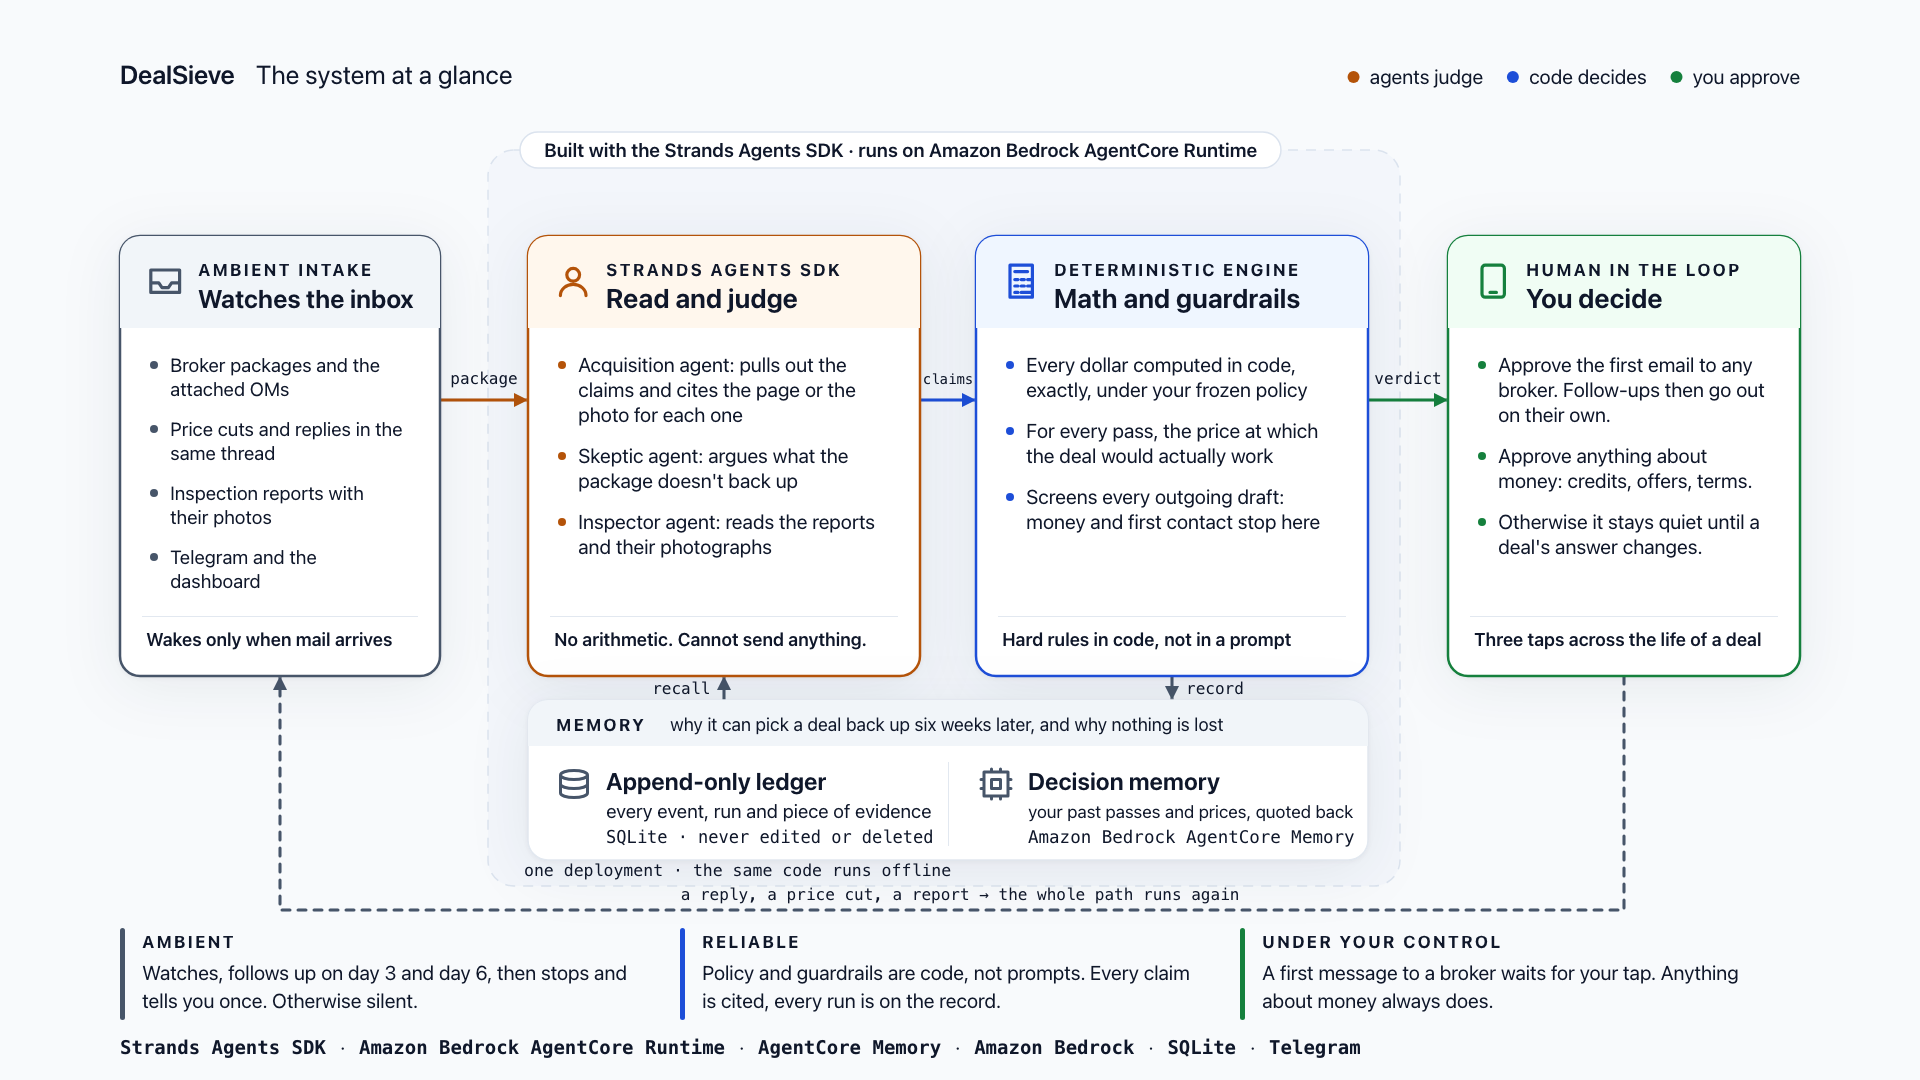
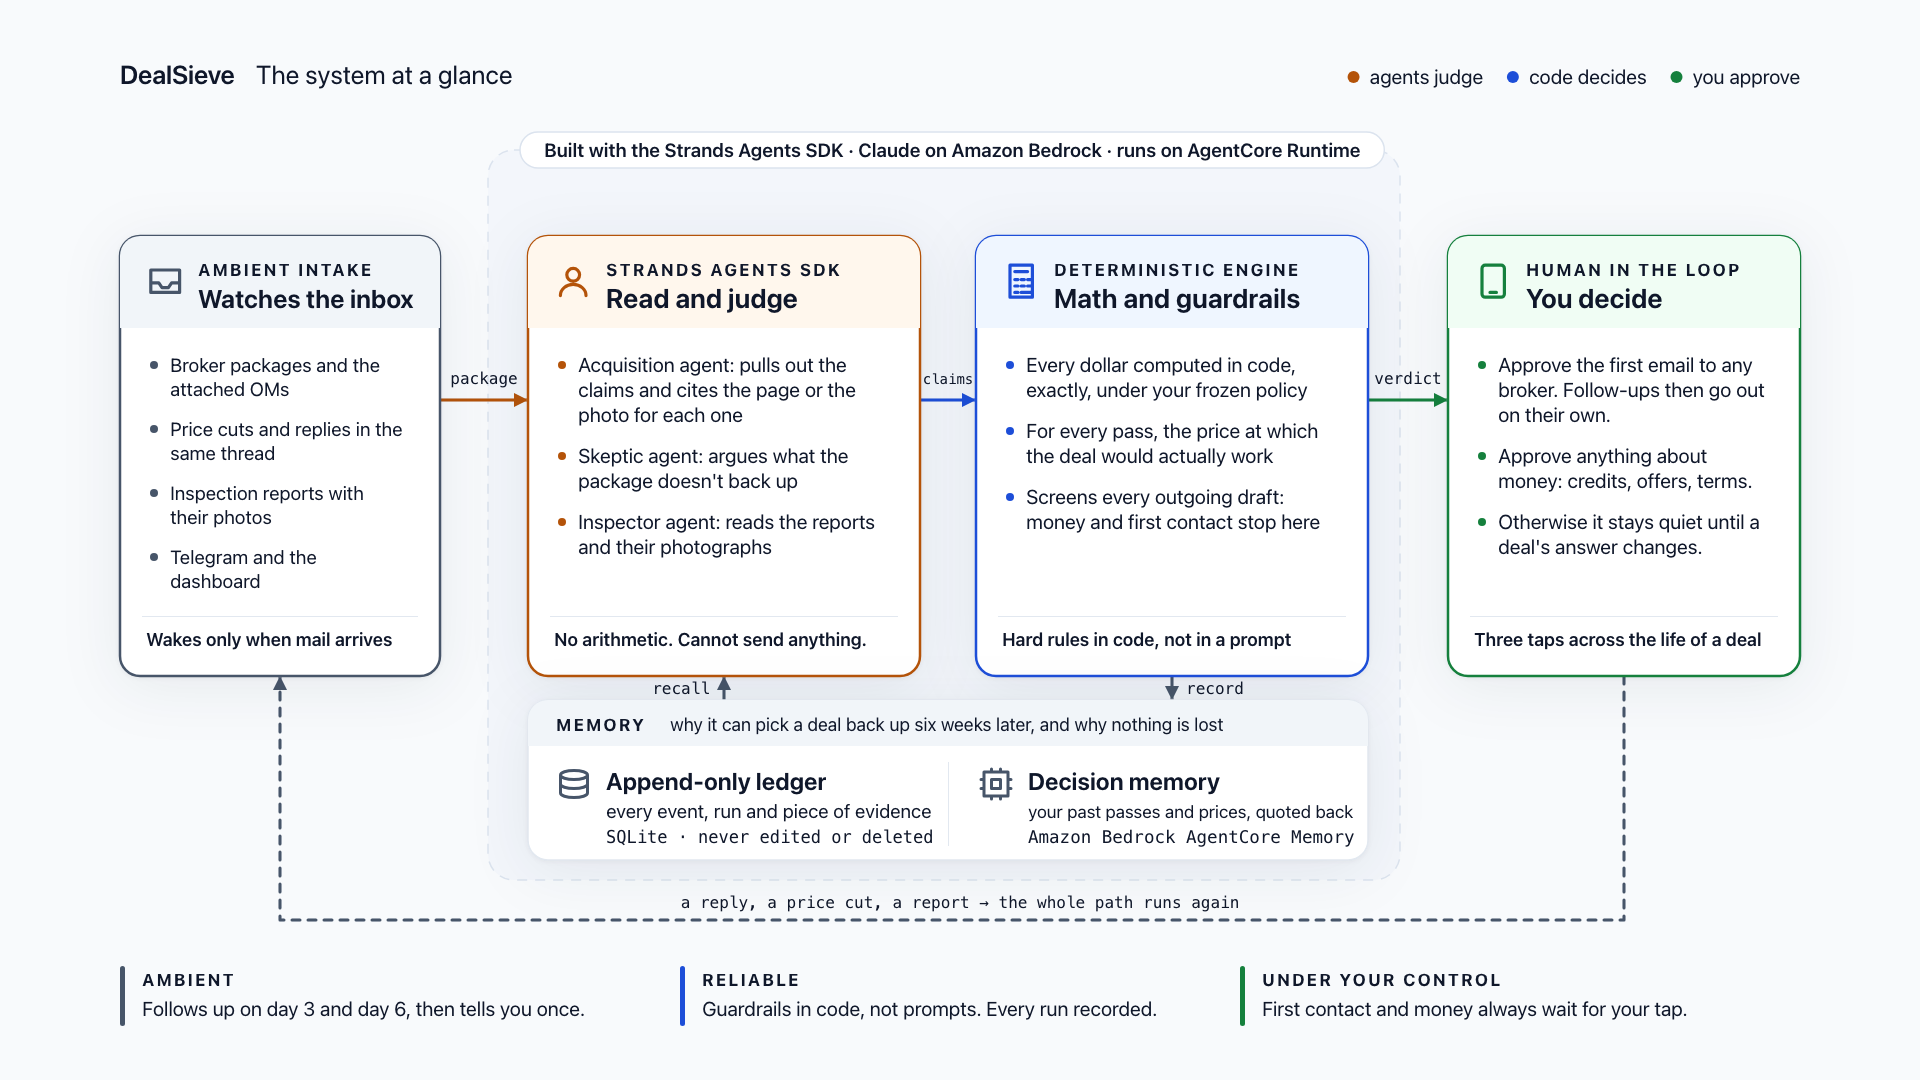
Architecture overview: lighter bottom half (one-line promises, no footnote or platform strip; Claude on Amazon Bedrock named in the platform pill)

Changed region(s): [[0.0625, 0.7944, 0.9062, 0.9778], [0.4375, 0.1222, 0.7188, 0.1528]]

diff --git a/architecture/overview.html b/architecture/overview.html
@@ -66,8 +66,8 @@ const gBack = el("g"), gEdges = el("g"), gBlocks = el("g"), gDeco = el("g"), gAn
 // ---------------------------------------------------------------- geometry
 const BLOCK_Y = 236, BLOCK_H = 440, BLOCK_BOTTOM = BLOCK_Y + BLOCK_H;      // 676
 const BAND_Y = 700, BAND_H = 160;                                            // 700..860
-const CLOUD = { x: 488, y: 150, w: 912, h: 736 };                            // ..886
-const LOOP_Y = 910;
+const CLOUD = { x: 488, y: 150, w: 912, h: 730 };                            // ..880
+const LOOP_Y = 920;
 const AGENTS_X = 528, ENGINE_X = 976, BLOCK_W = 392, HUMAN_X = 1448, SIDE_W = 320, HUMAN_W = 352;
 const AGENTS_CX = AGENTS_X + BLOCK_W / 2, ENGINE_CX = ENGINE_X + BLOCK_W / 2, HUMAN_CX = HUMAN_X + HUMAN_W / 2;
 const GAP_X = (AGENTS_X + BLOCK_W + ENGINE_X) / 2;                            // 946
@@ -92,9 +92,8 @@ const cloud = el("g", {}, gBack);
 el("rect", { x: CLOUD.x, y: CLOUD.y, width: CLOUD.w, height: CLOUD.h, rx: 26, fill: C.cloud, stroke: C.cloudLine, "stroke-width": 1.5, "stroke-dasharray": "10 8" }, cloud);
 const cloudLabel = el("g", {}, cloud);
 const pillRect = el("rect", { x: 520, y: 132, width: 10, height: 36, rx: 18, fill: "#fff", stroke: C.cloudLine, "stroke-width": 1.5 }, cloudLabel);
-const pillText = fit(txt(544, 157, "Built with the Strands Agents SDK  ·  runs on Amazon Bedrock AgentCore Runtime", { "font-size": 19, "font-weight": 600, fill: C.ink2 }, cloudLabel), 830);
+const pillText = fit(txt(544, 157, "Built with the Strands Agents SDK  ·  Claude on Amazon Bedrock  ·  runs on AgentCore Runtime", { "font-size": 19, "font-weight": 600, fill: C.ink2 }, cloudLabel), 830);
 pillRect.setAttribute("width", measure(pillText) + 48);
-const cloudNote = fit(txt(524, CLOUD.y + CLOUD.h - 10, "one deployment · the same code runs offline", { "font-size": 17, fill: C.dim, class: "mono" }, cloud), 430);
 
 // ---------------------------------------------------------------- icons
 const ICON = {
@@ -164,38 +163,28 @@ const half = (x, icon, title, line1, line2) => {
   el("path", { d: ICON[icon], fill: "none", stroke: C.slate, "stroke-width": 2, "stroke-linecap": "round", "stroke-linejoin": "round", transform: `translate(${x},${BAND_Y + 66}) scale(1.5)` }, band);
   const t = fit(txt(x + 50, BAND_Y + 90, title, { "font-size": 24, "font-weight": 650 }, band), halfW - 90);
   fit(txt(x + 50, BAND_Y + 118, line1, { "font-size": 19, fill: C.ink2 }, band), halfW - 90);
-  fit(txt(x + 50, BAND_Y + 143, line2, { "font-size": 18, fill: C.dim, class: "mono" }, band), halfW - 90);
-  return t;
+  const l2 = fit(txt(x + 50, BAND_Y + 143, line2, { "font-size": 18, fill: C.dim, class: "mono" }, band), halfW - 90);
+  return { t, l2 };
 };
-const ledgerTitle = half(BAND_X + 28, "db", "Append-only ledger", "every event, run and piece of evidence", "SQLite · never edited or deleted");
+const ledgerHalf = half(BAND_X + 28, "db", "Append-only ledger", "every event, run and piece of evidence", "SQLite · never edited or deleted");
+const ledgerTitle = ledgerHalf.t;
 el("rect", { x: BAND_X + halfW, y: BAND_Y + 62, width: 1, height: 84, fill: C.line }, band);
-const memTitle = half(BAND_X + halfW + 30, "memory", "Decision memory", "your past passes and prices, quoted back", "Amazon Bedrock AgentCore Memory");
+const memHalf = half(BAND_X + halfW + 30, "memory", "Decision memory", "your past passes and prices, quoted back", "Amazon Bedrock AgentCore Memory");
+const memTitle = memHalf.t, memLine = memHalf.l2;
 
 // ---------------------------------------------------------------- the three promises
 const PROMISES = [
-  { x: 120, kicker: "AMBIENT", col: C.slate, text: "Watches, follows up on day 3 and day 6, then stops and tells you once. Otherwise silent." },
-  { x: 680, kicker: "RELIABLE", col: C.blue, text: "Policy and guardrails are code, not prompts. Every claim is cited, every run is on the record." },
-  { x: 1240, kicker: "UNDER YOUR CONTROL", col: C.green, text: "A first message to a broker waits for your tap. Anything about money always does." },
+  { x: 120, kicker: "AMBIENT", col: C.slate, text: "Follows up on day 3 and day 6, then tells you once." },
+  { x: 680, kicker: "RELIABLE", col: C.blue, text: "Guardrails in code, not prompts. Every run recorded." },
+  { x: 1240, kicker: "UNDER YOUR CONTROL", col: C.green, text: "First contact and money always wait for your tap." },
 ];
 const promiseEls = PROMISES.map((p) => {
   const g = el("g", {}, gDeco);
-  el("rect", { x: p.x, y: 928, width: 5, height: 92, rx: 2.5, fill: p.col }, g);
-  fit(txt(p.x + 22, 948, p.kicker, { "font-size": 17, "font-weight": 700, fill: p.col, "letter-spacing": 2.4 }, g), 500);
-  wrap(p.x + 22, 980, p.text, 500, { "font-size": 20, fill: C.ink2 }, g, 28);
+  el("rect", { x: p.x, y: 966, width: 5, height: 60, rx: 2.5, fill: p.col }, g);
+  fit(txt(p.x + 22, 986, p.kicker, { "font-size": 17, "font-weight": 700, fill: p.col, "letter-spacing": 2.4 }, g), 520);
+  wrap(p.x + 22, 1016, p.text, 520, { "font-size": 20, fill: C.ink2 }, g, 26);
   return g;
 });
-// platform strip, laid out by measurement
-const PLATFORM = ["Strands Agents SDK", "Amazon Bedrock AgentCore Runtime", "AgentCore Memory", "Amazon Bedrock", "SQLite", "Telegram"];
-const platEls = [];
-{
-  let x = 120;
-  PLATFORM.forEach((s, i) => {
-    // measured bold, since the items turn bold as the narration reaches them
-    const t = txt(x, 1054, s, { "font-size": 19, fill: C.dim, class: "mono", "font-weight": 700 }, gDeco);
-    platEls.push(t); x += measure(t) + 14; t.setAttribute("font-weight", 400);
-    if (i < PLATFORM.length - 1) { const d = txt(x, 1054, "·", { "font-size": 19, fill: C.line }, gDeco); x += measure(d) + 14; }
-  });
-}
 
 // ---------------------------------------------------------------- edges (few, big)
 const EDGES = {
@@ -224,7 +213,7 @@ const labels = [
   edgeLabel((120 + SIDE_W + AGENTS_X) / 2, 384, "package", 84), edgeLabel(GAP_X, 384, "claims", 52),
   edgeLabel((ENGINE_X + BLOCK_W + HUMAN_X) / 2, 384, "verdict", 76),
   edgeLabel(ENGINE_CX + 14, BAND_Y - 6, "record", 120, "start"), edgeLabel(AGENTS_CX - 14, BAND_Y - 6, "recall", 120, "end"),
-  edgeLabel(960, LOOP_Y - 10, "a reply, a price cut, a report → the whole path runs again", 900),
+  edgeLabel(960, LOOP_Y - 12, "a reply, a price cut, a report  →  the whole path runs again", 900),
 ];
 
 // ---------------------------------------------------------------- animation pieces
@@ -301,15 +290,13 @@ function render(f) {
   band.setAttribute("transform", `translate(0,${-4 * (f >= 0.63 ? 1 - win(f, 0.63, 0.66) : 0)})`);
   promiseEls.forEach((g, i) => g.setAttribute("opacity", ease(win(f, 0.05 + i * 0.01, 0.085 + i * 0.01))));
   labels.forEach((t) => t.setAttribute("opacity", ease(win(f, 0.05, 0.08))));
-  platEls.forEach((t, i) => {
-    t.setAttribute("opacity", ease(win(f, 0.05, 0.08)));
-    const lit = f >= 0.89 + i * 0.017;
-    t.setAttribute("fill", lit ? C.ink : C.dim); t.setAttribute("font-weight", lit ? 700 : 400);
-  });
+  // the last beat: the narration names Strands and AgentCore, so the platform pill and the memory line light
   const platBeat = f >= 0.905 && f < 0.99;
   pillRect.setAttribute("stroke", platBeat ? C.ink2 : C.cloudLine);
   pillRect.setAttribute("stroke-width", platBeat ? 2.5 : 1.5);
-  cloudNote.setAttribute("fill", platBeat ? C.ink2 : C.dim);
+  pillText.setAttribute("fill", platBeat ? C.ink : C.ink2);
+  memLine.setAttribute("fill", f >= 0.69 ? C.slate : C.dim);
+  memLine.setAttribute("font-weight", platBeat || (f >= 0.69 && f < 0.78) ? 700 : 400);
   Object.values(edgeEls).forEach((ee) => {
     ee.g.setAttribute("opacity", ease(win(f, 0.05, 0.08)));
     const u = win(f, ee.e.t[0], ee.e.t[1]);
